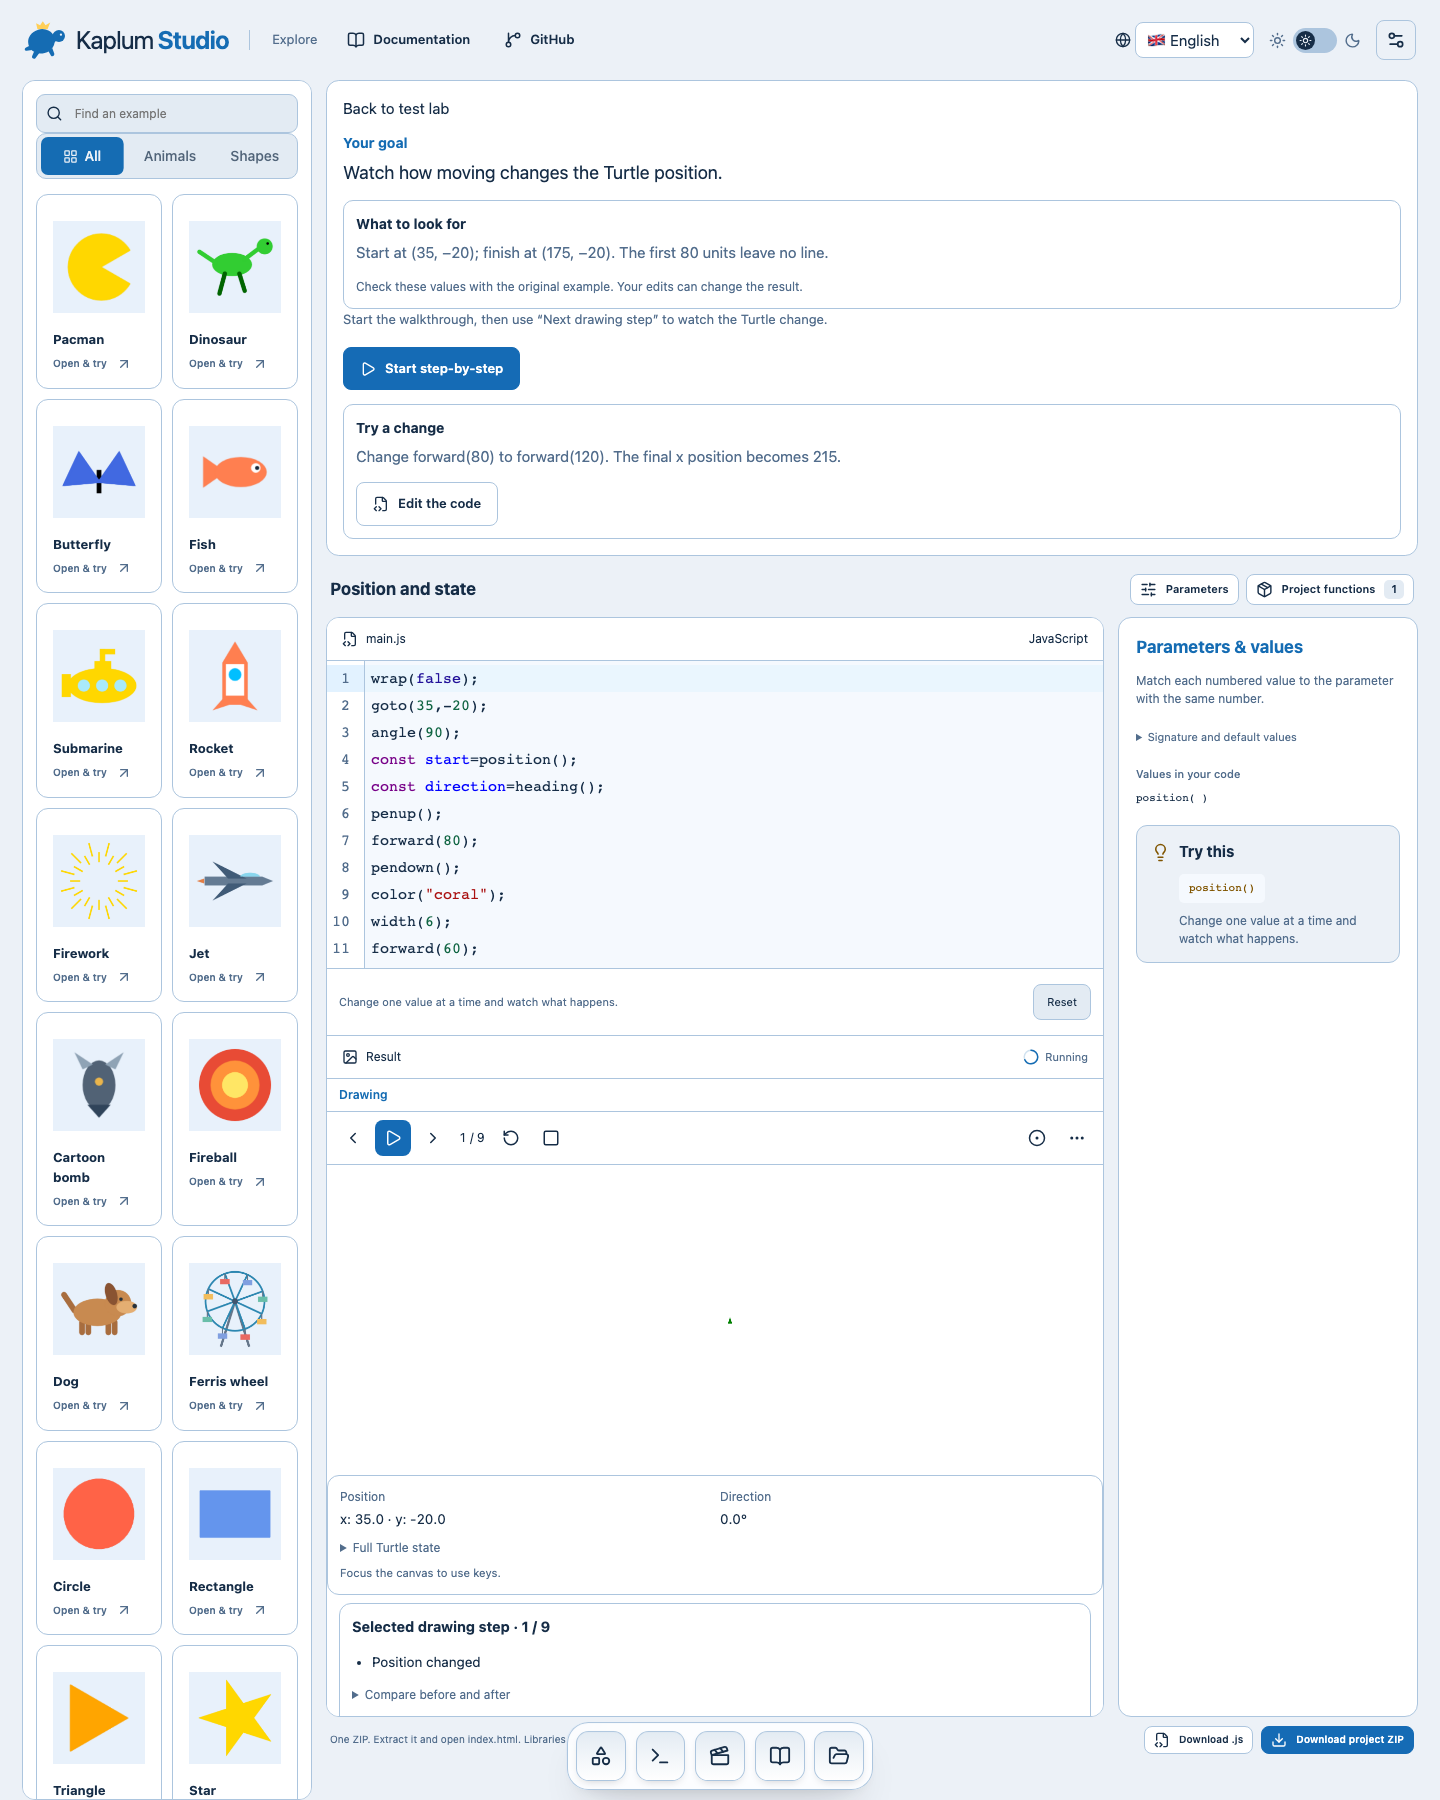
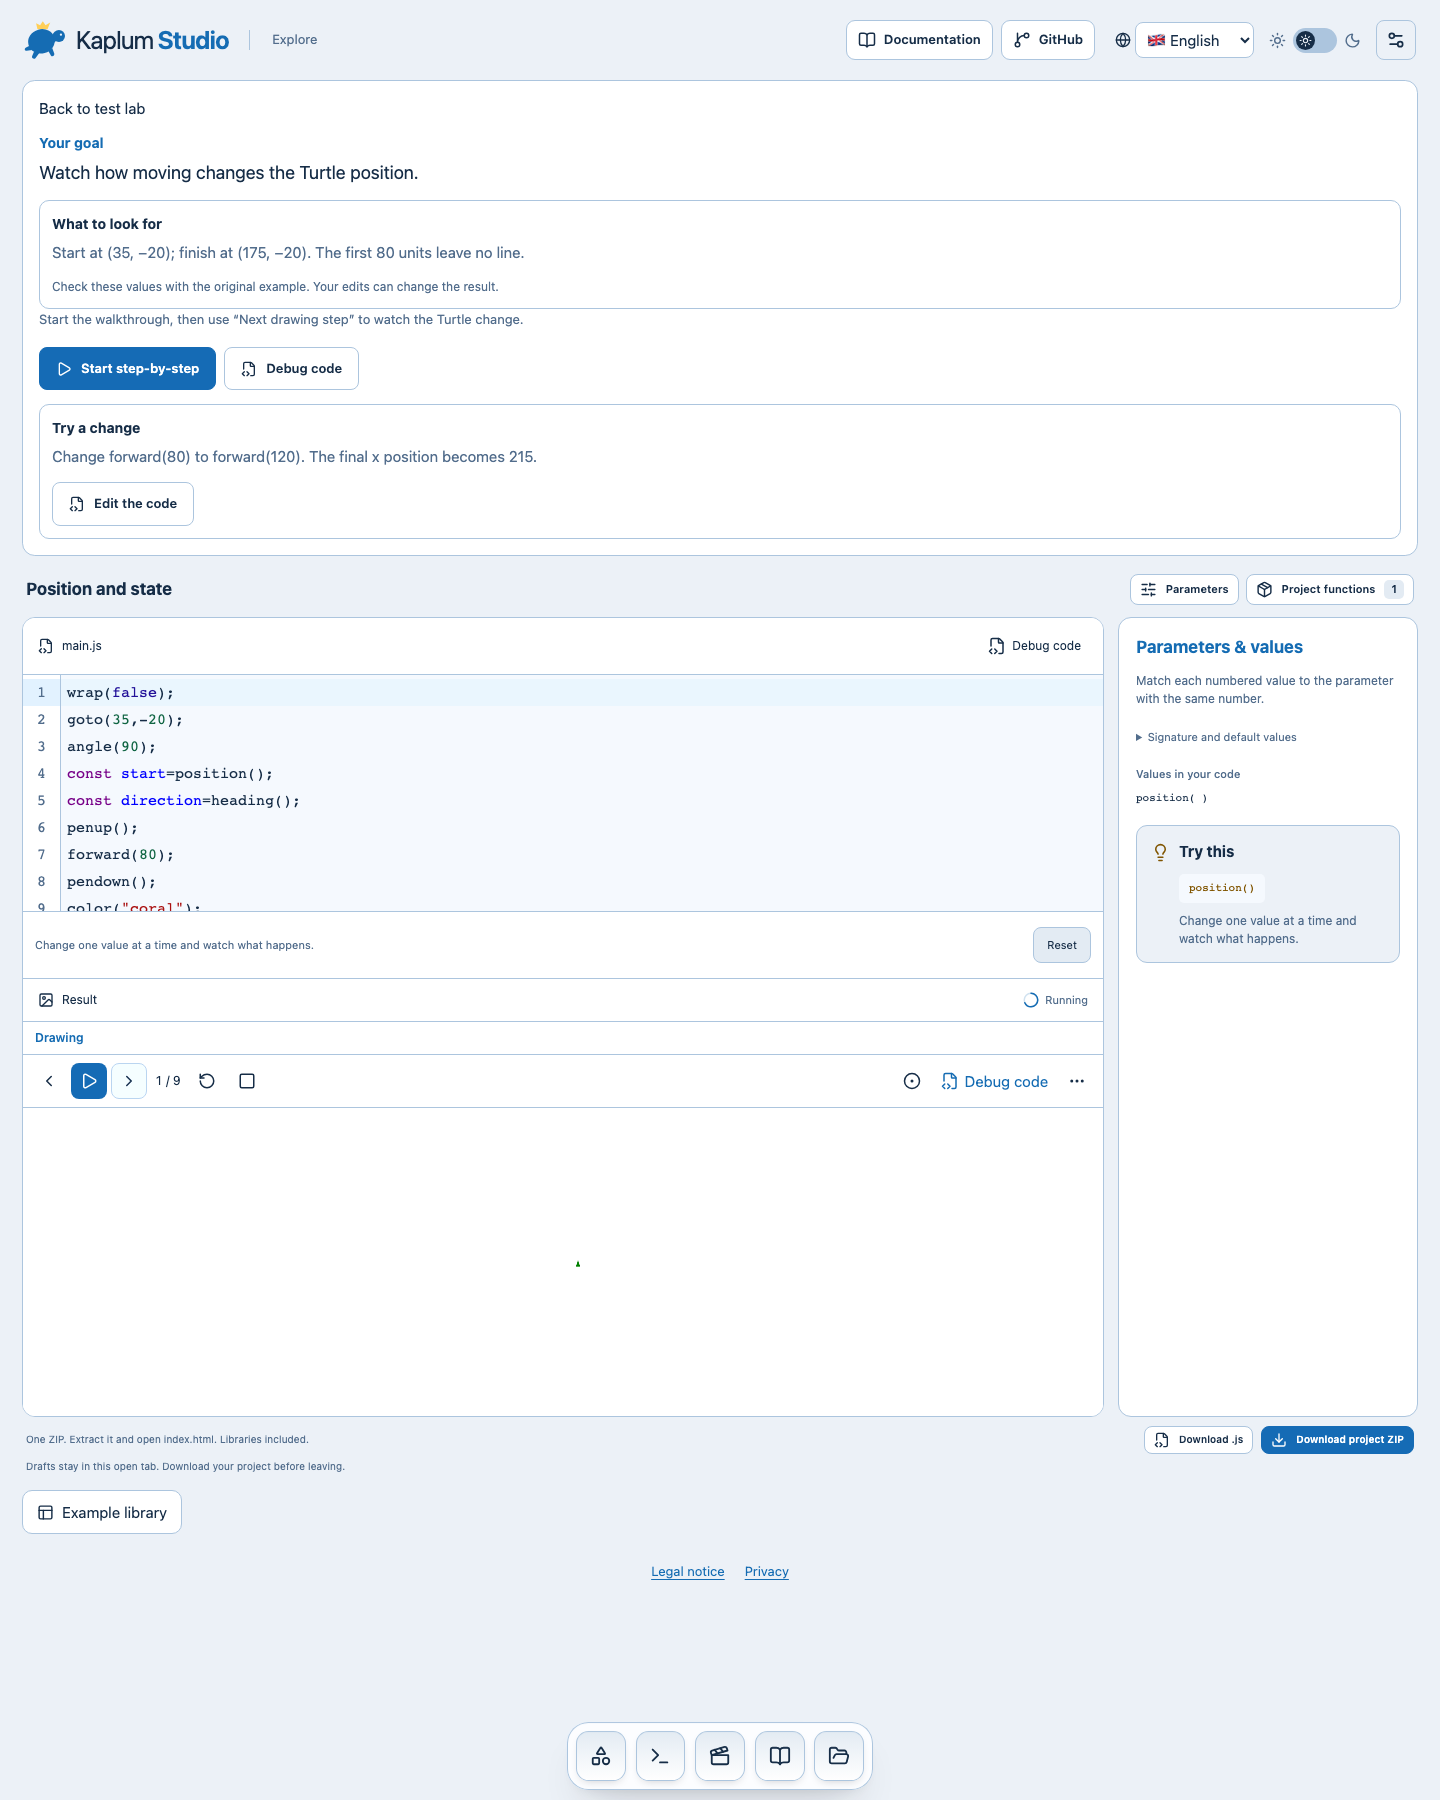
Preserve usable editor and canvas space across workspace layouts

diff --git a/tests/capabilities.spec.js b/tests/capabilities.spec.js
@@ -96,7 +96,7 @@ test('mobile lesson has readable code, a guided start and centred navigation', a
    for (const r of bounds) { expect(r.left).toBeGreaterThanOrEqual(-1); expect(r.right).toBeLessThanOrEqual(width+1); if(r.dock) expect(Math.abs(r.centre-width/2)).toBeLessThan(2); }
   }
   await page.locator('.language-picker select').selectOption('en');
-  await page.locator('.lesson-task > button').click();
+  await page.locator('.lesson-task').getByRole('button', {name:'Start step-by-step',exact:true}).click();
   await expect(page.locator('.result-pane')).toBeVisible();
   await expect(page.getByRole('group',{name:'Drawing playback'})).toBeVisible();
   await page.getByRole('button',{name:'Next drawing step',exact:true}).click();
@@ -106,7 +106,7 @@ test('mobile lesson has readable code, a guided start and centred navigation', a
 
 test('canvas tools sit above the drawing and optional panels start collapsed',async({page})=>{
  await page.setViewportSize({width:390,height:844});await page.goto('/#course/state');
- await page.locator('.lesson-task > button').click();
+ await page.locator('.lesson-task').getByRole('button', {name:'Start step-by-step',exact:true}).click();
  const toolbar=page.locator('.canvas-toolbar'),canvas=page.locator('.canvas-surface');
  await expect(page.getByRole('button',{name:'Next drawing step',exact:true})).toBeVisible();
  const a=await toolbar.boundingBox(),b=await canvas.boundingBox();expect(a.y+a.height).toBeLessThanOrEqual(b.y+1);
@@ -165,7 +165,7 @@ test('every lesson offers a goal, baseline outcome and edit challenge without re
  await page.setViewportSize({width:390,height:844});
  await page.locator('.lesson-challenge button').click();await expect(page.locator('#code')).toBeFocused();
  await page.keyboard.press('ControlOrMeta+A');await page.keyboard.type('forward(42); // my exercise');
- await page.locator('.lesson-task > button').click();await expect(page.locator('#code')).toContainText('my exercise');
+ await page.locator('.lesson-task').getByRole('button', {name:'Start step-by-step',exact:true}).click();await expect(page.locator('#code')).toContainText('my exercise');
  await expect(page.getByRole('group',{name:'Drawing playback'})).toBeVisible();
  await expect.poll(()=>page.evaluate(()=>document.documentElement.scrollWidth<=innerWidth+1)).toBe(true);
 });

diff --git a/tests/workspace-layout.spec.js b/tests/workspace-layout.spec.js
@@ -1,0 +1,34 @@
+import { test, expect } from '@playwright/test';
+
+for (const width of [390, 850, 1073, 1536]) {
+  test(`workspace content remains usable at ${width}px`, async ({ page }) => {
+    await page.setViewportSize({ width, height: 766 });
+    for (const route of ['animation/circle', 'figure/figur-dino', 'course/square']) {
+      await page.goto('/#' + route);
+      if (width <= 700) await page.getByRole('radio', { name: 'Result', exact: true }).click();
+      const canvas = page.locator('.result-pane .canvas-surface');
+      await expect(canvas).toBeVisible();
+      expect((await canvas.boundingBox()).height).toBeGreaterThanOrEqual(290);
+      if (width > 700) {
+        const editor = await page.locator('.editor-host').boundingBox();
+        expect(editor.height).toBeGreaterThanOrEqual(200);
+        const result = await page.locator('.result-pane').boundingBox();
+        const workbench = await page.locator('.workbench').boundingBox();
+        expect(result.y + result.height).toBeLessThanOrEqual(workbench.y + workbench.height + 1);
+      }
+      expect(await page.evaluate(() => document.documentElement.scrollWidth <= innerWidth + 1)).toBe(true);
+    }
+  });
+}
+
+test('parameters can be hidden on intermediate desktop widths', async ({ page }) => {
+  await page.setViewportSize({ width: 1073, height: 766 });
+  await page.goto('/#animation/circle');
+  const inspector = page.locator('.explanation-pane');
+  await expect(inspector).toBeVisible();
+  const before = await page.locator('.workbench').boundingBox();
+  await page.getByRole('button', { name: 'Parameters', exact: true }).click();
+  await expect(inspector).toBeHidden();
+  const after = await page.locator('.workbench').boundingBox();
+  expect(after.width).toBeGreaterThan(before.width + 150);
+});

diff --git a/app/atlas.css b/app/atlas.css
@@ -1174,3 +1174,28 @@ header .release-links a {
 @media (min-width: 701px) and (max-width: 1150px) {
   header:has(.release-links) .header-place { display: none; }
 }
+
+/* Editing and drawing must remain usable when teaching, exports or the example tray add content. */
+.atlas-workspace > .export-bar { margin-bottom: 0; flex-shrink: 0; }
+.atlas-workspace > .scope-note { flex-shrink: 0; }
+.atlas-workspace > .studio-legal-links { flex-shrink: 0; padding-bottom: 112px; }
+@media (min-width: 701px) {
+  .workspace-panels:not([data-debug="true"]) {
+    flex: 0 0 auto;
+    min-height: 800px;
+  }
+  .workspace-panels:not([data-debug="true"]) .workbench {
+    height: 800px;
+    min-height: 800px;
+  }
+  .workspace-panels:not([data-debug="true"]) .code-pane {
+    flex: 0 0 360px;
+  }
+  .workspace-panels:not([data-debug="true"]) .canvas-surface {
+    min-height: 300px;
+  }
+}
+@media (min-width: 901px) {
+  .workspace-panels[data-inspector="false"] { grid-template-columns: minmax(0, 1fr); }
+  .workspace-panels[data-inspector="false"] .explanation-pane { display: none; }
+}

diff --git a/tests/studio.spec.js b/tests/studio.spec.js
@@ -245,7 +245,7 @@ test("production screenshots for dark/light, settings and narrow review", async 
   await page.screenshot({ path: "docs/images/kaplum-next-mobile.png" });
   await page.setViewportSize({ width: 1440, height: 1800 });
   await page.goto("/#course/state");
-  await page.locator(".lesson-task > button").click();
+  await page.locator(".lesson-task").getByRole("button", { name: "Start step-by-step", exact: true }).click();
   await expect(page.getByRole("group", { name: "Drawing playback" })).toBeVisible();
   await page.getByRole("button", { name: "Next drawing step", exact: true }).click();
   await expect(page.locator(".drawing-step")).toContainText("Position changed");

diff --git a/docs/source-debugger.md b/docs/source-debugger.md
@@ -46,3 +46,7 @@ The most recent actual if/for/while result marks its source line green for true 
 ## Optional example tray
 
 The workspace uses the full available width. Example library is a collapsed section below the editor and drawing, with search, category filters and a horizontally scrollable row of examples. Opening it does not narrow the workspace. Selecting another example closes the tray and preserves the existing per-example drafts. This layout applies on desktop and mobile.
+
+## Workspace sizing
+
+Normal desktop editing reserves enough height for both source and drawing rather than shrinking them to fit exports or teaching text into one viewport. The workspace scrolls to reach additional controls. Parameter visibility works from 901px upward; mobile keeps the existing Code/Result/Explanation tabs. Dock clearance is reserved once at the end of the content, not as a large gap after the export controls.
